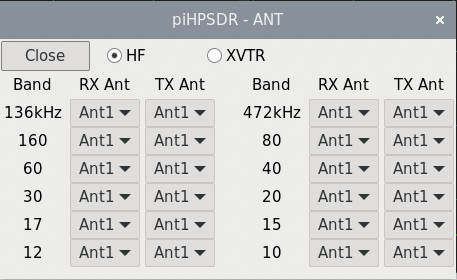
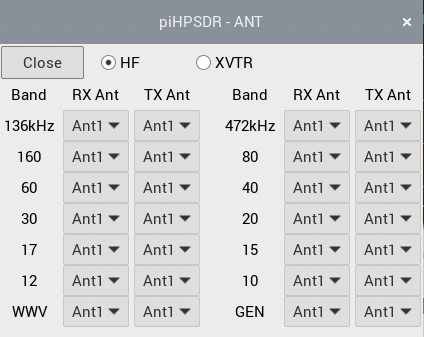
Manual: updates to reflect the changes in the Antenna menu.

diff --git a/release/LatexManual/piHPSDR-Manual.tex b/release/LatexManual/piHPSDR-Manual.tex
@@ -3330,7 +3330,10 @@ to the first ADC. If the radio has more than one ADC, the (RX only)
 antenna jack, usually denoted RX2, is hard-wired to the second ADC.
 
 If the menu is opened, the \rett{HF} button is checked, and the HF bands
-are displayed. If one checks the \rett{XVTR} button, the transverter bands
+are displayed. The WWV and general ,,bands'' are on display as well so you
+can e.g. choose an antenna for listening to signals outside of
+the amateur bands.
+If one checks the \rett{XVTR} button, the transverter bands
 are shown (this leads to an empty window if no transverter bands have
 yet been defined), and one can go back to the HF bands by re-checking
 \rett{HF}.
@@ -3343,9 +3346,6 @@ ration than standard antennas used for transmitting.
 \textbf{Transverter operation.} Newer radios (Anan-7000, 8000, and Saturn/G2) have a
 switchable low-power TX output, e.g. the \texttt{Xvtr Out} jack at the Anan-7000 back plane.
 This output is automatically enabled if \rett{Xvtr} is selected as the RX antenna of RX1.
-
-
-
 
 \begin{center}
 \fbox{
@@ -3390,6 +3390,7 @@ there is no such update so the problem remains.
 
 
 %%%%%%%%%%%%%%%%%%%%%%%%%%%%%%%%%%%%%%%%%%%%%%%%%%%%%%%%%%%%%%%%%%%%%%%%%%%%%%%%%%%%%%%%%%%%%%%%%%%%%%%%%%%%
+\clearpage
 \section{The \texttt{OC} (Open Collector) Menu}
 
 \begin{figure}[ht]
